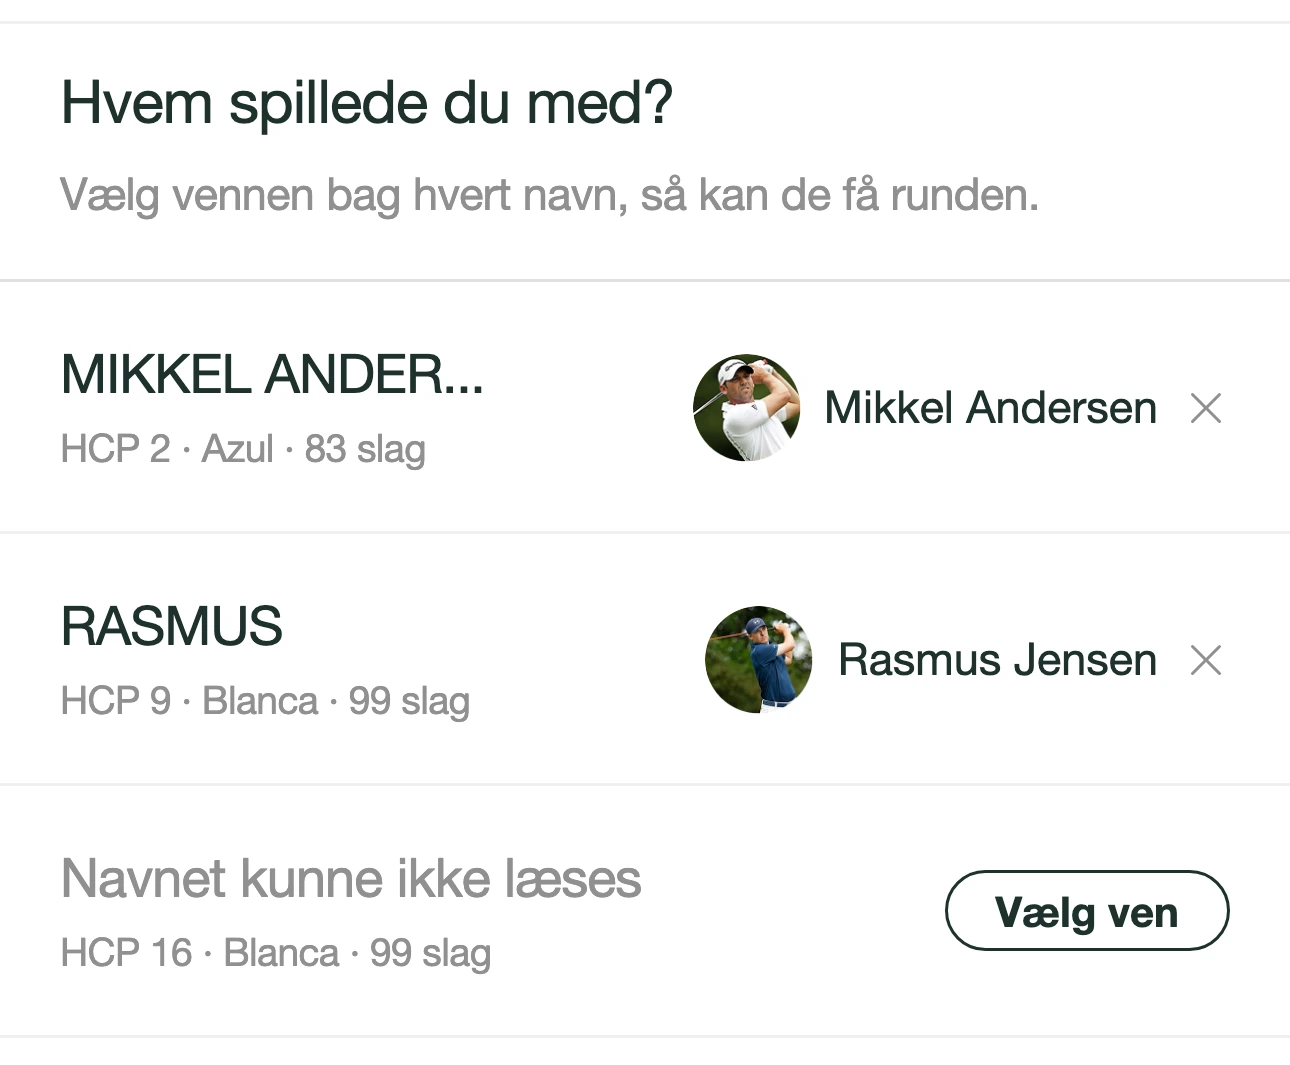
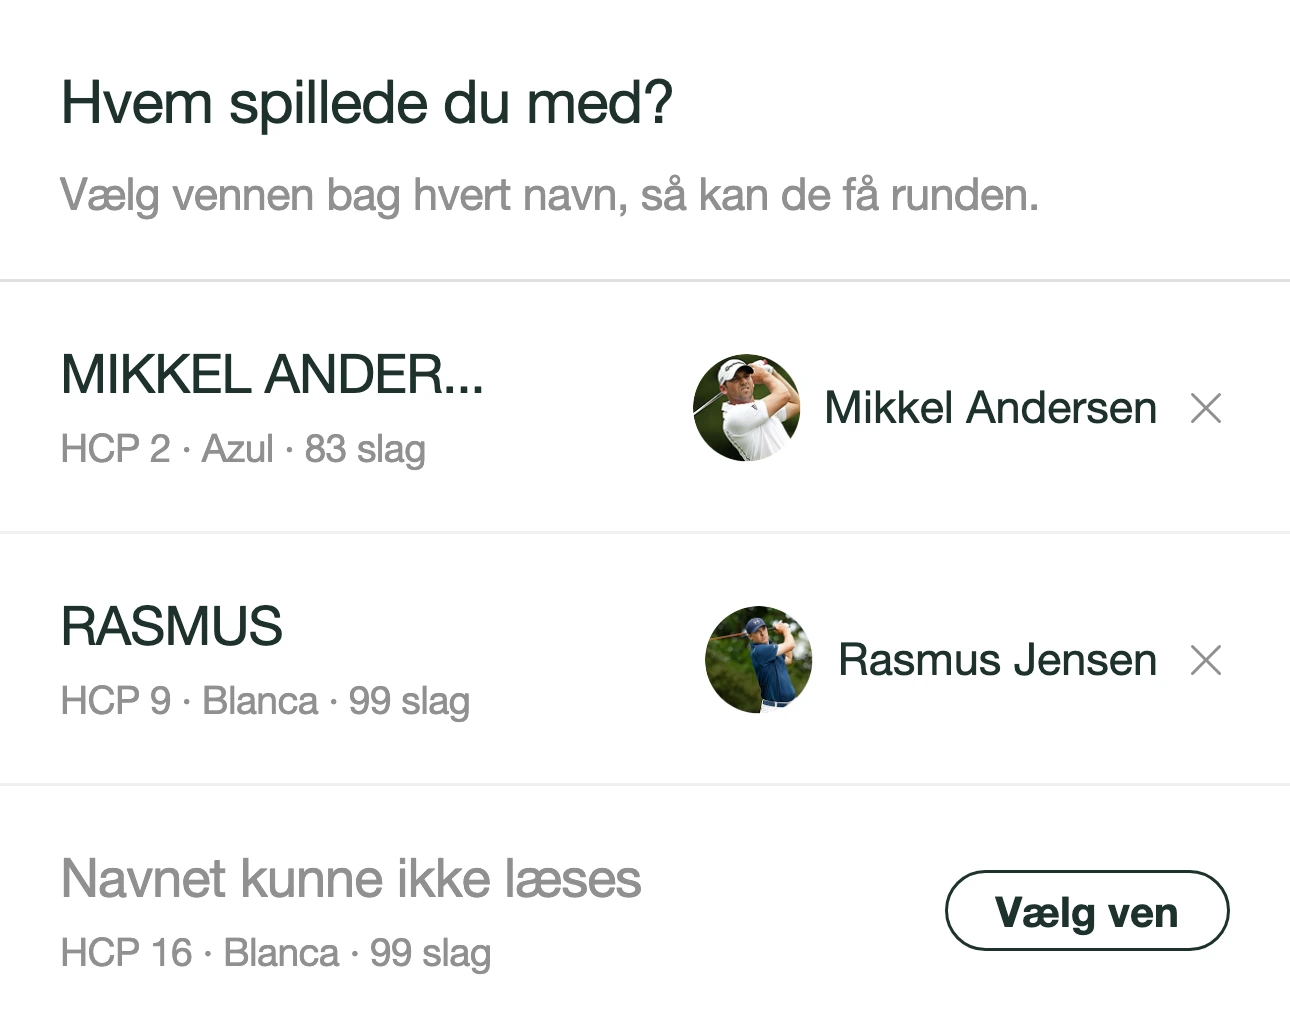
Indoor landing page: no inner borders in the app screens, padding under the tee chips
Cropped away the header line above the rows and the friends list, the last divider under the friends, the feed post's own frame and the line above the scorecard. The course fields get white space under the tee chips (Michel 26/11).

diff --git a/log-dine-runder-fra-golfsimulatoren.html b/log-dine-runder-fra-golfsimulatoren.html
@@ -152,7 +152,7 @@
           <span class="lp-float__in"><img loading="lazy" decoding="async" src="images/lp-in-raekker.webp" width="1290" height="1485" alt="After the photo of the simulator screen in Golfsocial: Hvilken række er dig?, Club de Golf Chapultepec, Individual Stableford, and one row per player with handicap, tee, points and strokes" /></span>
         </figure>
       <figure class="lp-float lp-float--near lp-in__post">
-          <span class="lp-float__in"><img loading="lazy" decoding="async" src="images/lp-in-opslag.webp" width="1290" height="1452" alt="An indoor round in the Golfsocial feed: Josh Williams spillede indendørs at Simgolf Amager, 88 strokes, 24 points, tee White, and a picture of Pebble Beach Golf Links" /></span>
+          <span class="lp-float__in"><img loading="lazy" decoding="async" src="images/lp-in-opslag.webp" width="1224" height="1443" alt="An indoor round in the Golfsocial feed: Josh Williams spillede indendørs at Simgolf Amager, 88 strokes, 24 points, tee White, and a picture of Pebble Beach Golf Links" /></span>
         </figure>
     </div>
   </section>
@@ -181,10 +181,10 @@
     </div>
     <div class="lp-moment__visual lp-moment__visual--mates">
       <figure class="lp-float lp-float--fade lp-mates__card">
-          <span class="lp-float__in"><img loading="lazy" decoding="async" src="images/lp-in-kort.webp" width="1290" height="2119" alt="Tjek dit scorekort in Golfsocial: the strokes read from the simulator screen for the front nine, with par for each hole" /></span>
+          <span class="lp-float__in"><img loading="lazy" decoding="async" src="images/lp-in-kort.webp" width="1290" height="2113" alt="Tjek dit scorekort in Golfsocial: the strokes read from the simulator screen for the front nine, with par for each hole" /></span>
         </figure>
       <figure class="lp-float lp-float--near lp-mates__pick">
-          <span class="lp-float__in"><img loading="lazy" decoding="async" src="images/lp-in-makkere.webp" width="1290" height="1065" alt="Hvem spillede du med? in Golfsocial: the other rows from the screen, two of them linked to the friends Mikkel Andersen and Rasmus Jensen, one name that could not be read" /></span>
+          <span class="lp-float__in"><img loading="lazy" decoding="async" src="images/lp-in-makkere.webp" width="1290" height="1030" alt="Hvem spillede du med? in Golfsocial: the other rows from the screen, two of them linked to the friends Mikkel Andersen and Rasmus Jensen, one name that could not be read" /></span>
         </figure>
     </div>
   </section>
@@ -197,7 +197,7 @@
     </div>
     <div class="lp-group__visual lp-group__visual--bane">
       <figure class="lp-float lp-float--near lp-bane__fields">
-          <span class="lp-float__in"><img loading="lazy" decoding="async" src="images/lp-in-bane.webp" width="1290" height="990" alt="The indoor round in Golfsocial filled in from the screen: the centre Simgolf København, the course Club de Golf Chapultepec, and the tee Blanca picked among the course's tees" /></span>
+          <span class="lp-float__in"><img loading="lazy" decoding="async" src="images/lp-in-bane.webp" width="1290" height="1038" alt="The indoor round in Golfsocial filled in from the screen: the centre Simgolf København, the course Club de Golf Chapultepec, and the tee Blanca picked among the course's tees" /></span>
         </figure>
     </div>
   </section>
